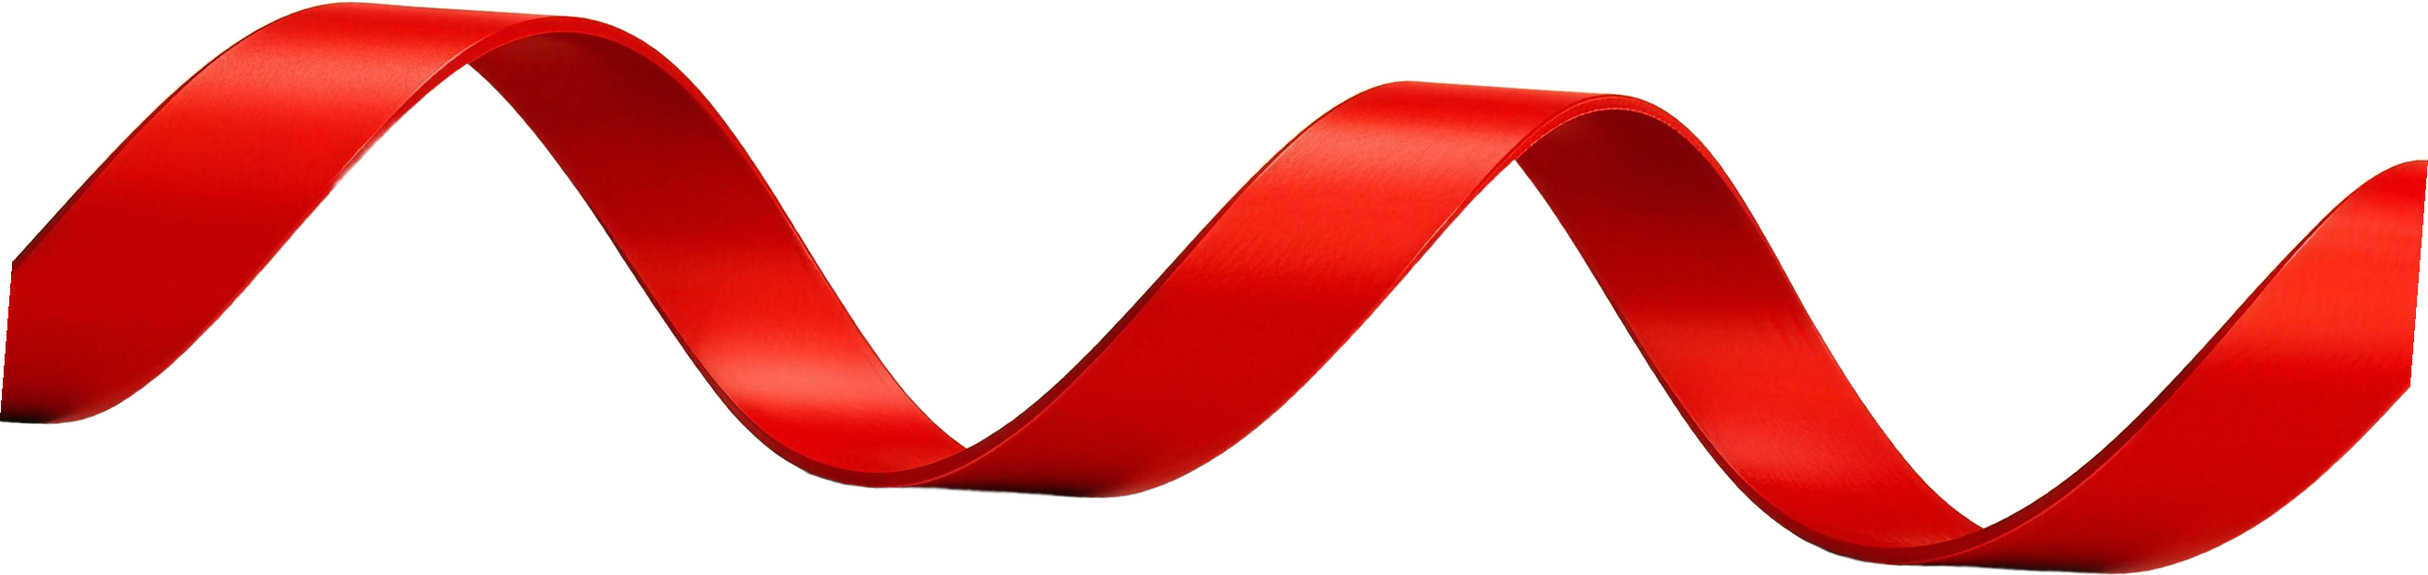
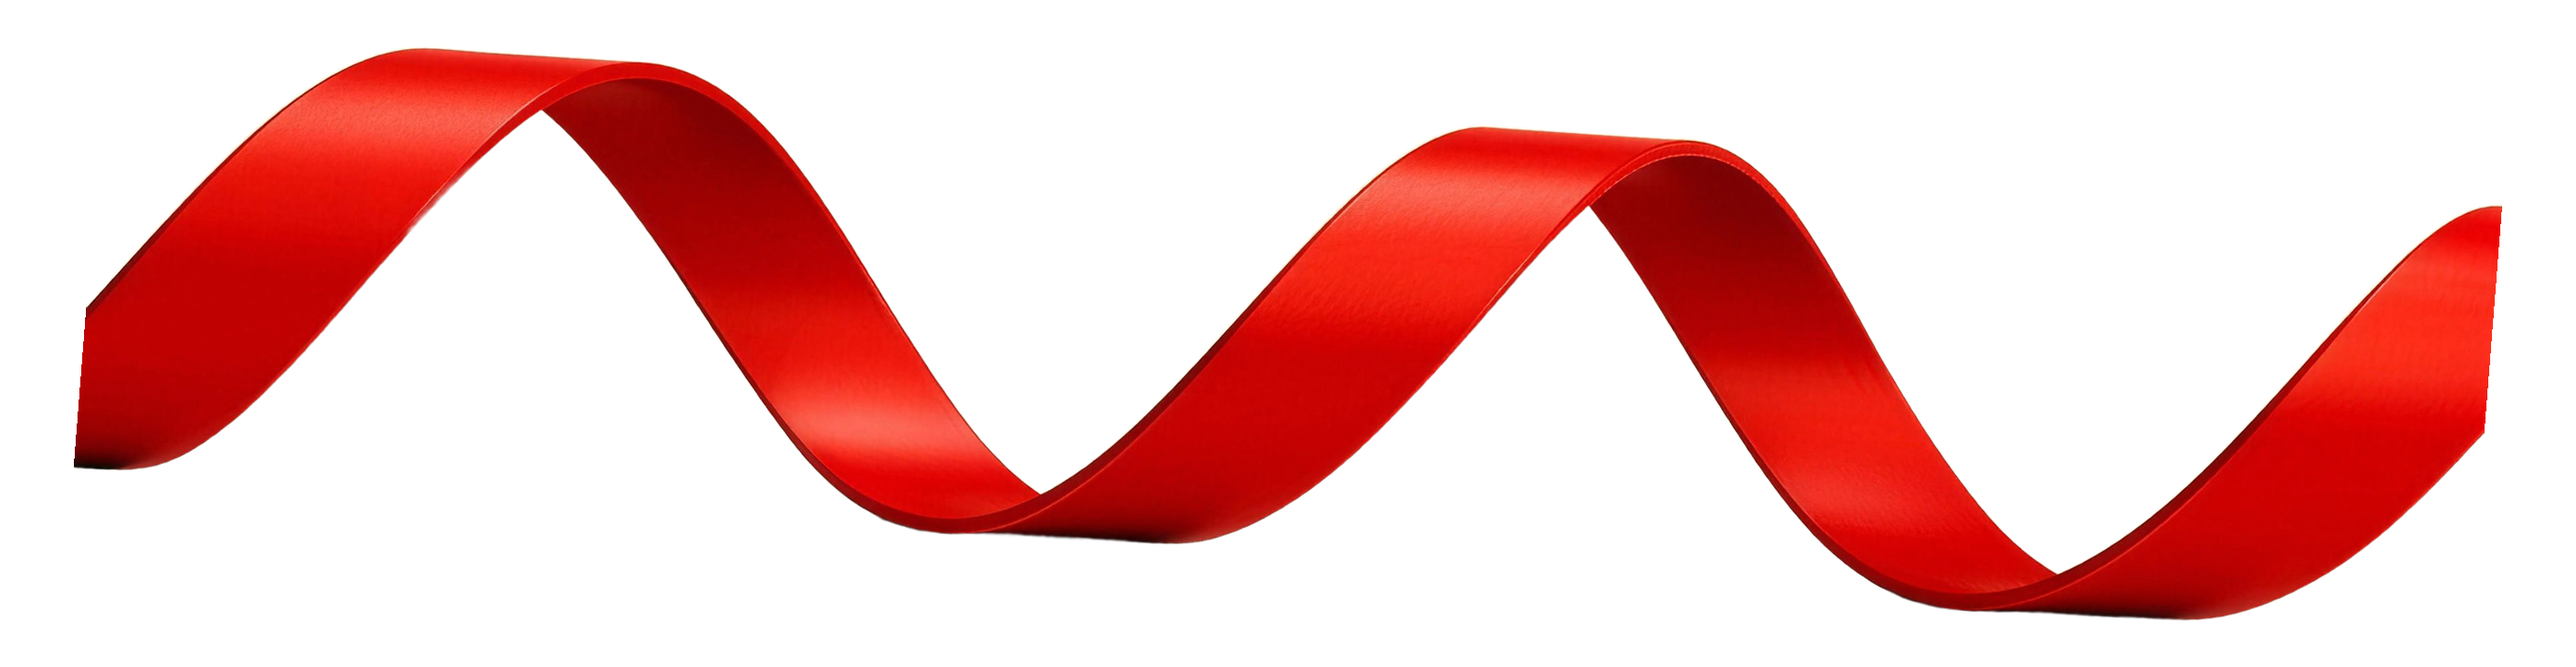
fix(customer-web): ribbon v11: bands float in padded assets (no edge clipping, even mid-turn) and scale down to peek proportions; per-variant stage heights; softer rotation

diff --git a/apps/customer-web/components/landing/RibbonBand.tsx b/apps/customer-web/components/landing/RibbonBand.tsx
@@ -19,18 +19,20 @@ const VARIANTS = {
   // Rhythmic corkscrew wave, descending left to right
   a: {
     src: '/ribbon/flow-a.png',
-    w: 2630,
-    h: 623,
-    top: 'M -140 -140 L -140 453 L 0 453 L 17 284 L 33 266 L 50 247 L 66 229 L 83 210 L 99 193 L 116 175 L 132 158 L 149 141 L 165 125 L 182 109 L 198 94 L 215 80 L 231 68 L 248 55 L 265 44 L 281 35 L 298 26 L 314 20 L 331 14 L 347 10 L 364 8 L 380 7 L 397 8 L 413 9 L 430 10 L 446 12 L 463 13 L 480 14 L 496 15 L 513 16 L 529 17 L 546 18 L 562 19 L 579 20 L 595 21 L 612 22 L 628 24 L 645 27 L 661 32 L 678 40 L 694 48 L 711 60 L 728 74 L 744 89 L 761 108 L 777 127 L 794 150 L 810 173 L 827 199 L 843 223 L 860 252 L 876 277 L 893 305 L 909 330 L 926 356 L 942 379 L 959 403 L 976 425 L 992 444 L 1009 461 L 1025 475 L 1042 488 L 1058 486 L 1075 475 L 1091 464 L 1108 451 L 1124 438 L 1141 423 L 1157 408 L 1174 391 L 1190 375 L 1207 357 L 1224 339 L 1240 321 L 1257 303 L 1273 285 L 1290 266 L 1306 249 L 1323 230 L 1339 213 L 1356 195 L 1372 179 L 1389 164 L 1405 149 L 1422 136 L 1439 124 L 1455 114 L 1472 105 L 1488 99 L 1505 94 L 1521 93 L 1538 93 L 1554 94 L 1571 95 L 1587 97 L 1604 98 L 1620 99 L 1637 100 L 1653 101 L 1670 102 L 1687 103 L 1703 104 L 1720 105 L 1736 106 L 1753 107 L 1769 110 L 1786 116 L 1802 125 L 1819 137 L 1835 151 L 1852 170 L 1868 192 L 1885 217 L 1901 243 L 1918 273 L 1935 304 L 1951 333 L 1968 363 L 1984 389 L 2001 417 L 2017 441 L 2034 465 L 2050 486 L 2067 508 L 2083 526 L 2100 543 L 2116 556 L 2133 569 L 2149 577 L 2166 569 L 2183 560 L 2199 551 L 2216 540 L 2232 528 L 2249 516 L 2265 502 L 2282 487 L 2298 472 L 2315 456 L 2331 440 L 2348 422 L 2364 405 L 2381 386 L 2398 367 L 2414 350 L 2431 331 L 2447 313 L 2464 294 L 2480 277 L 2497 260 L 2513 244 L 2530 228 L 2546 214 L 2563 201 L 2579 191 L 2596 183 L 2612 179 L 2629 178 L 2770 178 L 2770 -140 Z',
-    bottom: 'M -140 763 L -140 450 L 0 450 L 17 451 L 33 452 L 50 452 L 66 451 L 83 449 L 99 444 L 116 437 L 132 428 L 149 417 L 165 405 L 182 391 L 198 376 L 215 359 L 231 343 L 248 325 L 265 306 L 281 288 L 298 269 L 314 250 L 331 231 L 347 213 L 364 191 L 380 174 L 397 156 L 413 141 L 430 124 L 446 109 L 463 94 L 480 80 L 496 69 L 513 68 L 529 83 L 546 100 L 562 118 L 579 139 L 595 159 L 612 182 L 628 204 L 645 229 L 661 253 L 678 280 L 694 304 L 711 329 L 728 354 L 744 378 L 761 401 L 777 422 L 794 443 L 810 459 L 827 475 L 843 487 L 860 497 L 876 506 L 893 512 L 909 516 L 926 519 L 942 521 L 959 522 L 976 521 L 992 521 L 1009 522 L 1025 523 L 1042 524 L 1058 525 L 1075 526 L 1091 526 L 1108 527 L 1124 528 L 1141 530 L 1157 531 L 1174 532 L 1190 532 L 1207 531 L 1224 529 L 1240 525 L 1257 519 L 1273 513 L 1290 504 L 1306 495 L 1323 485 L 1339 473 L 1356 460 L 1372 447 L 1389 433 L 1405 417 L 1422 401 L 1439 383 L 1455 366 L 1472 348 L 1488 330 L 1505 311 L 1521 293 L 1538 274 L 1554 255 L 1571 236 L 1587 218 L 1604 200 L 1620 184 L 1637 168 L 1653 183 L 1670 206 L 1687 231 L 1703 256 L 1720 283 L 1736 309 L 1753 338 L 1769 363 L 1786 390 L 1802 415 L 1819 441 L 1835 464 L 1852 486 L 1868 505 L 1885 525 L 1901 540 L 1918 555 L 1935 567 L 1951 577 L 1968 585 L 1984 592 L 2001 597 L 2017 601 L 2034 604 L 2050 605 L 2067 606 L 2083 606 L 2100 606 L 2116 606 L 2133 607 L 2149 608 L 2166 609 L 2183 610 L 2199 611 L 2216 612 L 2232 612 L 2249 613 L 2265 614 L 2282 615 L 2298 615 L 2315 613 L 2331 610 L 2348 606 L 2364 601 L 2381 595 L 2398 587 L 2414 579 L 2431 570 L 2447 560 L 2464 549 L 2480 537 L 2497 524 L 2513 510 L 2530 494 L 2546 479 L 2563 462 L 2579 445 L 2596 427 L 2612 389 L 2629 173 L 2770 173 L 2770 763 Z',
+    w: 2790,
+    h: 723,
+    stage: 'h-[110px] md:h-[230px]',
+    top: 'M -140 -140 L -140 401 L 0 401 L 18 401 L 35 401 L 53 401 L 70 401 L 88 401 L 105 325 L 123 305 L 140 286 L 158 266 L 175 247 L 193 228 L 210 210 L 228 192 L 246 174 L 263 158 L 281 142 L 298 128 L 316 114 L 333 102 L 351 91 L 368 81 L 386 73 L 403 67 L 421 61 L 439 58 L 456 57 L 474 58 L 491 59 L 509 60 L 526 62 L 544 63 L 561 64 L 579 65 L 596 66 L 614 67 L 631 68 L 649 70 L 667 71 L 684 72 L 702 73 L 719 76 L 737 81 L 754 88 L 772 97 L 789 108 L 807 123 L 824 139 L 842 159 L 860 181 L 877 204 L 895 230 L 912 256 L 930 285 L 947 313 L 965 342 L 982 369 L 1000 397 L 1017 422 L 1035 448 L 1052 470 L 1070 492 L 1088 510 L 1105 525 L 1123 539 L 1140 534 L 1158 523 L 1175 511 L 1193 497 L 1210 483 L 1228 467 L 1245 451 L 1263 432 L 1280 415 L 1298 396 L 1316 376 L 1333 357 L 1351 337 L 1368 318 L 1386 299 L 1403 280 L 1421 260 L 1438 243 L 1456 226 L 1473 210 L 1491 194 L 1509 181 L 1526 169 L 1544 159 L 1561 151 L 1579 146 L 1596 143 L 1614 143 L 1631 144 L 1649 145 L 1666 147 L 1684 148 L 1701 149 L 1719 150 L 1737 151 L 1754 153 L 1772 154 L 1789 155 L 1807 156 L 1824 156 L 1842 159 L 1859 163 L 1877 172 L 1894 183 L 1912 198 L 1929 217 L 1947 240 L 1965 267 L 1982 295 L 2000 327 L 2017 358 L 2035 390 L 2052 419 L 2070 449 L 2087 476 L 2105 502 L 2122 526 L 2140 549 L 2158 570 L 2175 588 L 2193 604 L 2210 616 L 2228 627 L 2245 620 L 2263 610 L 2280 600 L 2298 588 L 2315 576 L 2333 562 L 2350 548 L 2368 532 L 2386 515 L 2403 498 L 2421 479 L 2438 461 L 2456 441 L 2473 423 L 2491 403 L 2508 384 L 2526 364 L 2543 345 L 2561 326 L 2579 308 L 2596 291 L 2614 274 L 2631 260 L 2649 247 L 2666 238 L 2684 231 L 2701 228 L 2719 228 L 2736 228 L 2754 228 L 2771 228 L 2789 228 L 2930 228 L 2930 -140 Z',
+    bottom: 'M -140 863 L -140 500 L 0 500 L 18 500 L 35 500 L 53 500 L 70 500 L 88 500 L 105 502 L 123 502 L 140 502 L 158 500 L 175 496 L 193 489 L 210 479 L 228 467 L 246 454 L 263 440 L 281 423 L 298 406 L 316 388 L 333 369 L 351 350 L 368 330 L 386 309 L 403 290 L 421 270 L 439 249 L 456 228 L 474 209 L 491 192 L 509 175 L 526 159 L 544 143 L 561 130 L 579 116 L 596 121 L 614 138 L 631 156 L 649 177 L 667 199 L 684 221 L 702 246 L 719 270 L 737 297 L 754 324 L 772 351 L 789 377 L 807 403 L 824 428 L 842 452 L 860 476 L 877 496 L 895 514 L 912 529 L 930 541 L 947 551 L 965 559 L 982 565 L 1000 568 L 1017 571 L 1035 572 L 1052 571 L 1070 571 L 1088 572 L 1105 573 L 1123 574 L 1140 575 L 1158 576 L 1175 576 L 1193 578 L 1210 579 L 1228 580 L 1245 582 L 1263 582 L 1280 582 L 1298 580 L 1316 576 L 1333 571 L 1351 563 L 1368 555 L 1386 545 L 1403 535 L 1421 522 L 1438 509 L 1456 494 L 1473 479 L 1491 462 L 1509 443 L 1526 426 L 1544 407 L 1561 388 L 1579 368 L 1596 349 L 1614 328 L 1631 309 L 1649 288 L 1666 269 L 1684 250 L 1701 233 L 1719 217 L 1737 238 L 1754 262 L 1772 289 L 1789 315 L 1807 345 L 1824 372 L 1842 402 L 1859 429 L 1877 457 L 1894 483 L 1912 510 L 1929 532 L 1947 554 L 1965 575 L 1982 591 L 2000 606 L 2017 618 L 2035 629 L 2052 637 L 2070 644 L 2087 649 L 2105 652 L 2122 654 L 2140 656 L 2158 656 L 2175 656 L 2193 656 L 2210 657 L 2228 658 L 2245 659 L 2263 660 L 2280 661 L 2298 662 L 2315 662 L 2333 663 L 2350 664 L 2368 665 L 2386 664 L 2403 662 L 2421 658 L 2438 653 L 2456 647 L 2473 640 L 2491 631 L 2508 622 L 2526 611 L 2543 600 L 2561 586 L 2579 572 L 2596 557 L 2614 541 L 2631 524 L 2649 506 L 2666 488 L 2684 469 L 2701 325 L 2719 325 L 2736 325 L 2754 325 L 2771 325 L 2789 325 L 2930 325 L 2930 863 Z',
   },
   // Deep sweeping wave with folds, tilted (mounted flipped it descends too)
   b: {
     src: '/ribbon/flow-b.png',
-    w: 2648,
-    h: 795,
-    top: 'M -140 -140 L -140 9 L 0 9 L 17 10 L 33 10 L 50 10 L 67 11 L 83 12 L 100 12 L 117 13 L 133 14 L 150 14 L 166 15 L 183 16 L 200 17 L 216 18 L 233 18 L 250 19 L 266 21 L 283 22 L 300 23 L 316 24 L 333 25 L 350 27 L 366 27 L 383 29 L 400 30 L 416 31 L 433 32 L 449 34 L 466 36 L 483 40 L 499 45 L 516 50 L 533 57 L 549 64 L 566 73 L 583 83 L 599 93 L 616 105 L 633 118 L 649 131 L 666 146 L 683 162 L 699 178 L 716 195 L 733 213 L 749 231 L 766 250 L 782 268 L 799 288 L 816 308 L 832 327 L 849 347 L 866 367 L 882 385 L 899 405 L 916 425 L 932 443 L 949 462 L 966 480 L 982 498 L 999 515 L 1016 533 L 1032 548 L 1049 565 L 1065 579 L 1082 594 L 1099 609 L 1115 622 L 1132 635 L 1149 648 L 1165 660 L 1182 672 L 1199 681 L 1215 668 L 1232 646 L 1249 622 L 1265 599 L 1282 572 L 1299 545 L 1315 519 L 1332 492 L 1348 466 L 1365 438 L 1382 410 L 1398 385 L 1415 360 L 1432 336 L 1448 315 L 1465 293 L 1482 274 L 1498 257 L 1515 240 L 1532 224 L 1548 211 L 1565 199 L 1582 187 L 1598 178 L 1615 170 L 1631 164 L 1648 159 L 1665 154 L 1681 152 L 1698 150 L 1715 149 L 1731 148 L 1748 147 L 1765 146 L 1781 146 L 1798 145 L 1815 144 L 1831 143 L 1848 143 L 1865 142 L 1881 142 L 1898 141 L 1914 141 L 1931 140 L 1948 140 L 1964 140 L 1981 139 L 1998 139 L 2014 139 L 2031 139 L 2048 139 L 2064 139 L 2081 139 L 2098 140 L 2114 141 L 2131 143 L 2148 145 L 2164 149 L 2181 154 L 2198 159 L 2214 166 L 2231 173 L 2247 182 L 2264 192 L 2281 203 L 2297 214 L 2314 227 L 2331 241 L 2347 255 L 2364 270 L 2381 286 L 2397 301 L 2414 318 L 2431 334 L 2447 350 L 2464 367 L 2481 384 L 2497 400 L 2514 417 L 2530 432 L 2547 449 L 2564 464 L 2580 478 L 2597 493 L 2614 507 L 2630 519 L 2647 708 L 2788 708 L 2788 -140 Z',
-    bottom: 'M -140 935 L -140 6 L 0 6 L 17 284 L 33 375 L 50 352 L 67 330 L 83 311 L 100 290 L 117 270 L 133 252 L 150 233 L 166 217 L 183 201 L 200 185 L 216 172 L 233 158 L 250 145 L 266 147 L 283 163 L 300 180 L 316 197 L 333 215 L 350 234 L 366 252 L 383 272 L 400 293 L 416 312 L 433 333 L 449 353 L 466 374 L 483 395 L 499 415 L 516 437 L 533 458 L 549 477 L 566 498 L 583 518 L 599 536 L 616 555 L 633 574 L 649 591 L 666 608 L 683 625 L 699 641 L 716 656 L 733 671 L 749 684 L 766 697 L 782 709 L 799 720 L 816 731 L 832 740 L 849 749 L 866 757 L 882 764 L 899 770 L 916 775 L 932 780 L 949 783 L 966 786 L 982 787 L 999 786 L 1016 785 L 1032 785 L 1049 784 L 1065 783 L 1082 783 L 1099 782 L 1115 781 L 1132 780 L 1149 779 L 1165 778 L 1182 776 L 1199 776 L 1215 775 L 1232 774 L 1249 772 L 1265 771 L 1282 770 L 1299 768 L 1315 767 L 1332 766 L 1348 764 L 1365 761 L 1382 760 L 1398 757 L 1415 755 L 1432 751 L 1448 747 L 1465 741 L 1482 733 L 1498 726 L 1515 716 L 1532 704 L 1548 691 L 1565 676 L 1582 659 L 1598 642 L 1615 622 L 1631 602 L 1648 581 L 1665 560 L 1681 539 L 1698 517 L 1715 495 L 1731 475 L 1748 454 L 1765 434 L 1781 416 L 1798 398 L 1815 380 L 1831 363 L 1848 347 L 1865 331 L 1881 318 L 1898 305 L 1914 293 L 1931 281 L 1948 277 L 1964 292 L 1981 308 L 1998 324 L 2014 341 L 2031 358 L 2048 376 L 2064 393 L 2081 411 L 2098 429 L 2114 445 L 2131 463 L 2148 480 L 2164 496 L 2181 512 L 2198 528 L 2214 543 L 2231 557 L 2247 570 L 2264 584 L 2281 596 L 2297 608 L 2314 619 L 2331 630 L 2347 639 L 2364 649 L 2381 657 L 2397 665 L 2414 672 L 2431 678 L 2447 684 L 2464 690 L 2481 695 L 2497 699 L 2514 702 L 2530 705 L 2547 706 L 2564 706 L 2580 706 L 2597 706 L 2614 705 L 2630 705 L 2647 706 L 2788 706 L 2788 935 Z',
+    w: 2808,
+    h: 923,
+    stage: 'h-[130px] md:h-[280px]',
+    top: 'M -140 -140 L -140 74 L 0 74 L 18 74 L 35 74 L 53 74 L 71 74 L 88 74 L 106 74 L 124 74 L 141 75 L 159 76 L 177 76 L 194 77 L 212 78 L 230 78 L 247 79 L 265 80 L 282 81 L 300 82 L 318 83 L 335 84 L 353 85 L 371 86 L 388 87 L 406 89 L 424 90 L 441 91 L 459 92 L 477 93 L 494 95 L 512 96 L 530 98 L 547 101 L 565 105 L 583 110 L 600 116 L 618 123 L 636 132 L 653 141 L 671 152 L 689 164 L 706 176 L 724 191 L 741 205 L 759 222 L 777 240 L 794 257 L 812 276 L 830 296 L 847 315 L 865 336 L 883 357 L 900 377 L 918 398 L 936 419 L 953 439 L 971 460 L 989 480 L 1006 500 L 1024 520 L 1042 540 L 1059 559 L 1077 577 L 1095 596 L 1112 612 L 1130 629 L 1148 646 L 1165 661 L 1183 676 L 1200 690 L 1218 704 L 1236 718 L 1253 729 L 1271 741 L 1289 740 L 1306 717 L 1324 693 L 1342 667 L 1359 642 L 1377 613 L 1395 583 L 1412 556 L 1430 527 L 1448 497 L 1465 469 L 1483 442 L 1501 416 L 1518 392 L 1536 368 L 1554 346 L 1571 328 L 1589 310 L 1607 293 L 1624 278 L 1642 265 L 1659 253 L 1677 243 L 1695 234 L 1712 228 L 1730 222 L 1748 218 L 1765 215 L 1783 213 L 1801 212 L 1818 211 L 1836 210 L 1854 210 L 1871 209 L 1889 208 L 1907 208 L 1924 207 L 1942 206 L 1960 206 L 1977 205 L 1995 205 L 2013 204 L 2030 204 L 2048 204 L 2066 204 L 2083 203 L 2101 203 L 2118 203 L 2136 203 L 2154 203 L 2171 204 L 2189 204 L 2207 206 L 2224 209 L 2242 212 L 2260 218 L 2277 223 L 2295 230 L 2313 238 L 2330 247 L 2348 258 L 2366 270 L 2383 283 L 2401 297 L 2419 312 L 2436 327 L 2454 344 L 2472 360 L 2489 377 L 2507 394 L 2525 412 L 2542 429 L 2560 447 L 2577 464 L 2595 482 L 2613 499 L 2630 516 L 2648 532 L 2666 547 L 2683 562 L 2701 576 L 2719 641 L 2736 641 L 2754 641 L 2772 641 L 2789 641 L 2807 641 L 2948 641 L 2948 -140 Z',
+    bottom: 'M -140 1063 L -140 201 L 0 201 L 18 201 L 35 201 L 53 201 L 71 201 L 88 201 L 106 449 L 124 424 L 141 402 L 159 380 L 177 358 L 194 337 L 212 317 L 230 297 L 247 280 L 265 263 L 282 247 L 300 232 L 318 218 L 335 206 L 353 218 L 371 235 L 388 252 L 406 271 L 424 291 L 441 310 L 459 331 L 477 353 L 494 374 L 512 396 L 530 418 L 547 439 L 565 462 L 583 485 L 600 506 L 618 528 L 636 550 L 653 570 L 671 591 L 689 612 L 706 630 L 724 650 L 741 667 L 759 685 L 777 703 L 794 718 L 812 734 L 830 749 L 847 762 L 865 775 L 883 787 L 900 797 L 918 807 L 936 817 L 953 824 L 971 832 L 989 837 L 1006 842 L 1024 846 L 1042 850 L 1059 850 L 1077 850 L 1095 849 L 1112 849 L 1130 848 L 1148 847 L 1165 847 L 1183 846 L 1200 845 L 1218 844 L 1236 842 L 1253 841 L 1271 840 L 1289 839 L 1306 838 L 1324 837 L 1342 835 L 1359 834 L 1377 832 L 1395 831 L 1412 830 L 1430 827 L 1448 825 L 1465 823 L 1483 821 L 1501 817 L 1518 813 L 1536 808 L 1554 801 L 1571 793 L 1589 783 L 1607 772 L 1624 759 L 1642 743 L 1659 727 L 1677 707 L 1695 686 L 1712 665 L 1730 643 L 1748 620 L 1765 597 L 1783 574 L 1801 551 L 1818 530 L 1836 508 L 1854 488 L 1871 469 L 1889 450 L 1907 431 L 1924 414 L 1942 398 L 1960 383 L 1977 369 L 1995 356 L 2013 344 L 2030 343 L 2048 360 L 2066 376 L 2083 393 L 2101 412 L 2118 429 L 2136 449 L 2154 468 L 2171 486 L 2189 504 L 2207 523 L 2224 540 L 2242 558 L 2260 575 L 2277 591 L 2295 607 L 2313 623 L 2330 637 L 2348 651 L 2366 664 L 2383 676 L 2401 688 L 2419 698 L 2436 708 L 2454 718 L 2472 727 L 2489 734 L 2507 741 L 2525 748 L 2542 753 L 2560 759 L 2577 763 L 2595 767 L 2613 769 L 2630 770 L 2648 770 L 2666 770 L 2683 770 L 2701 769 L 2719 770 L 2736 770 L 2754 770 L 2772 770 L 2789 770 L 2807 770 L 2948 770 L 2948 1063 Z',
   },
 } as const
 
@@ -53,19 +55,19 @@ export function RibbonBand({
   // Drift sideways while the whole plane turns: rotateX tips the band toward
   // and away from the viewer, the small roll keeps the turn organic. The
   // block bleeds past the container so the turn never exposes an edge.
-  const x = useScrollLinked(useTransform(scrollYProgress, [0, 1], [-26, 26]))
-  const rotX = useScrollLinked(useTransform(scrollYProgress, [0, 1], [9, -9]))
-  const roll = useScrollLinked(useTransform(scrollYProgress, [0, 1], [1.6, -1.6]))
+  const x = useScrollLinked(useTransform(scrollYProgress, [0, 1], [-22, 22]))
+  const rotX = useScrollLinked(useTransform(scrollYProgress, [0, 1], [6, -6]))
+  const roll = useScrollLinked(useTransform(scrollYProgress, [0, 1], [1.2, -1.2]))
 
   return (
     <div
       ref={ref}
       aria-hidden="true"
-      className="relative pointer-events-none select-none h-[170px] md:h-[330px] overflow-hidden"
+      className={`relative pointer-events-none select-none ${v.stage} overflow-hidden`}
       style={{ background: topColor, perspective: 1100 }}
     >
       <motion.div
-        className="absolute -inset-x-[3%] -inset-y-[9%]"
+        className="absolute -inset-x-[3%] -inset-y-[6%]"
         style={{
           x: reduceMotion ? 0 : x,
           rotateX: reduceMotion ? 0 : rotX,

diff --git a/docs/design/customer-web-prelaunch/execution-log.md b/docs/design/customer-web-prelaunch/execution-log.md
@@ -590,3 +590,12 @@ edited by this workstream.
   HowItWorks (both hugged a seam), remounted small and far from the bands:
   Pricing top-left (200px) and AppCtaFooter top-right (220px), xl-gated,
   beside centred content so they never crowd copy.
+- Ribbon v11 SCALE + CLIP FIX (owner 2026-07-08: bands clipped at top/sides/
+  bottom and far too big: the navy-break one especially; the side peeks are
+  the right size reference): the bands now float inside transparent-padded
+  assets (8% vertical + 80px horizontal margins) so no crest or corner can
+  ever touch a container edge, including mid-rotation; first over-correction
+  (50-60% padding) made the deep wave a thin streak and was rebalanced same
+  pass. Per-variant stage heights (corkscrew 230px, deep wave 280px desktop;
+  110/130 mobile) bring the visible band body to peek scale. Turn softened
+  (rotateX 6deg, roll 1.2deg, drift 22px).
